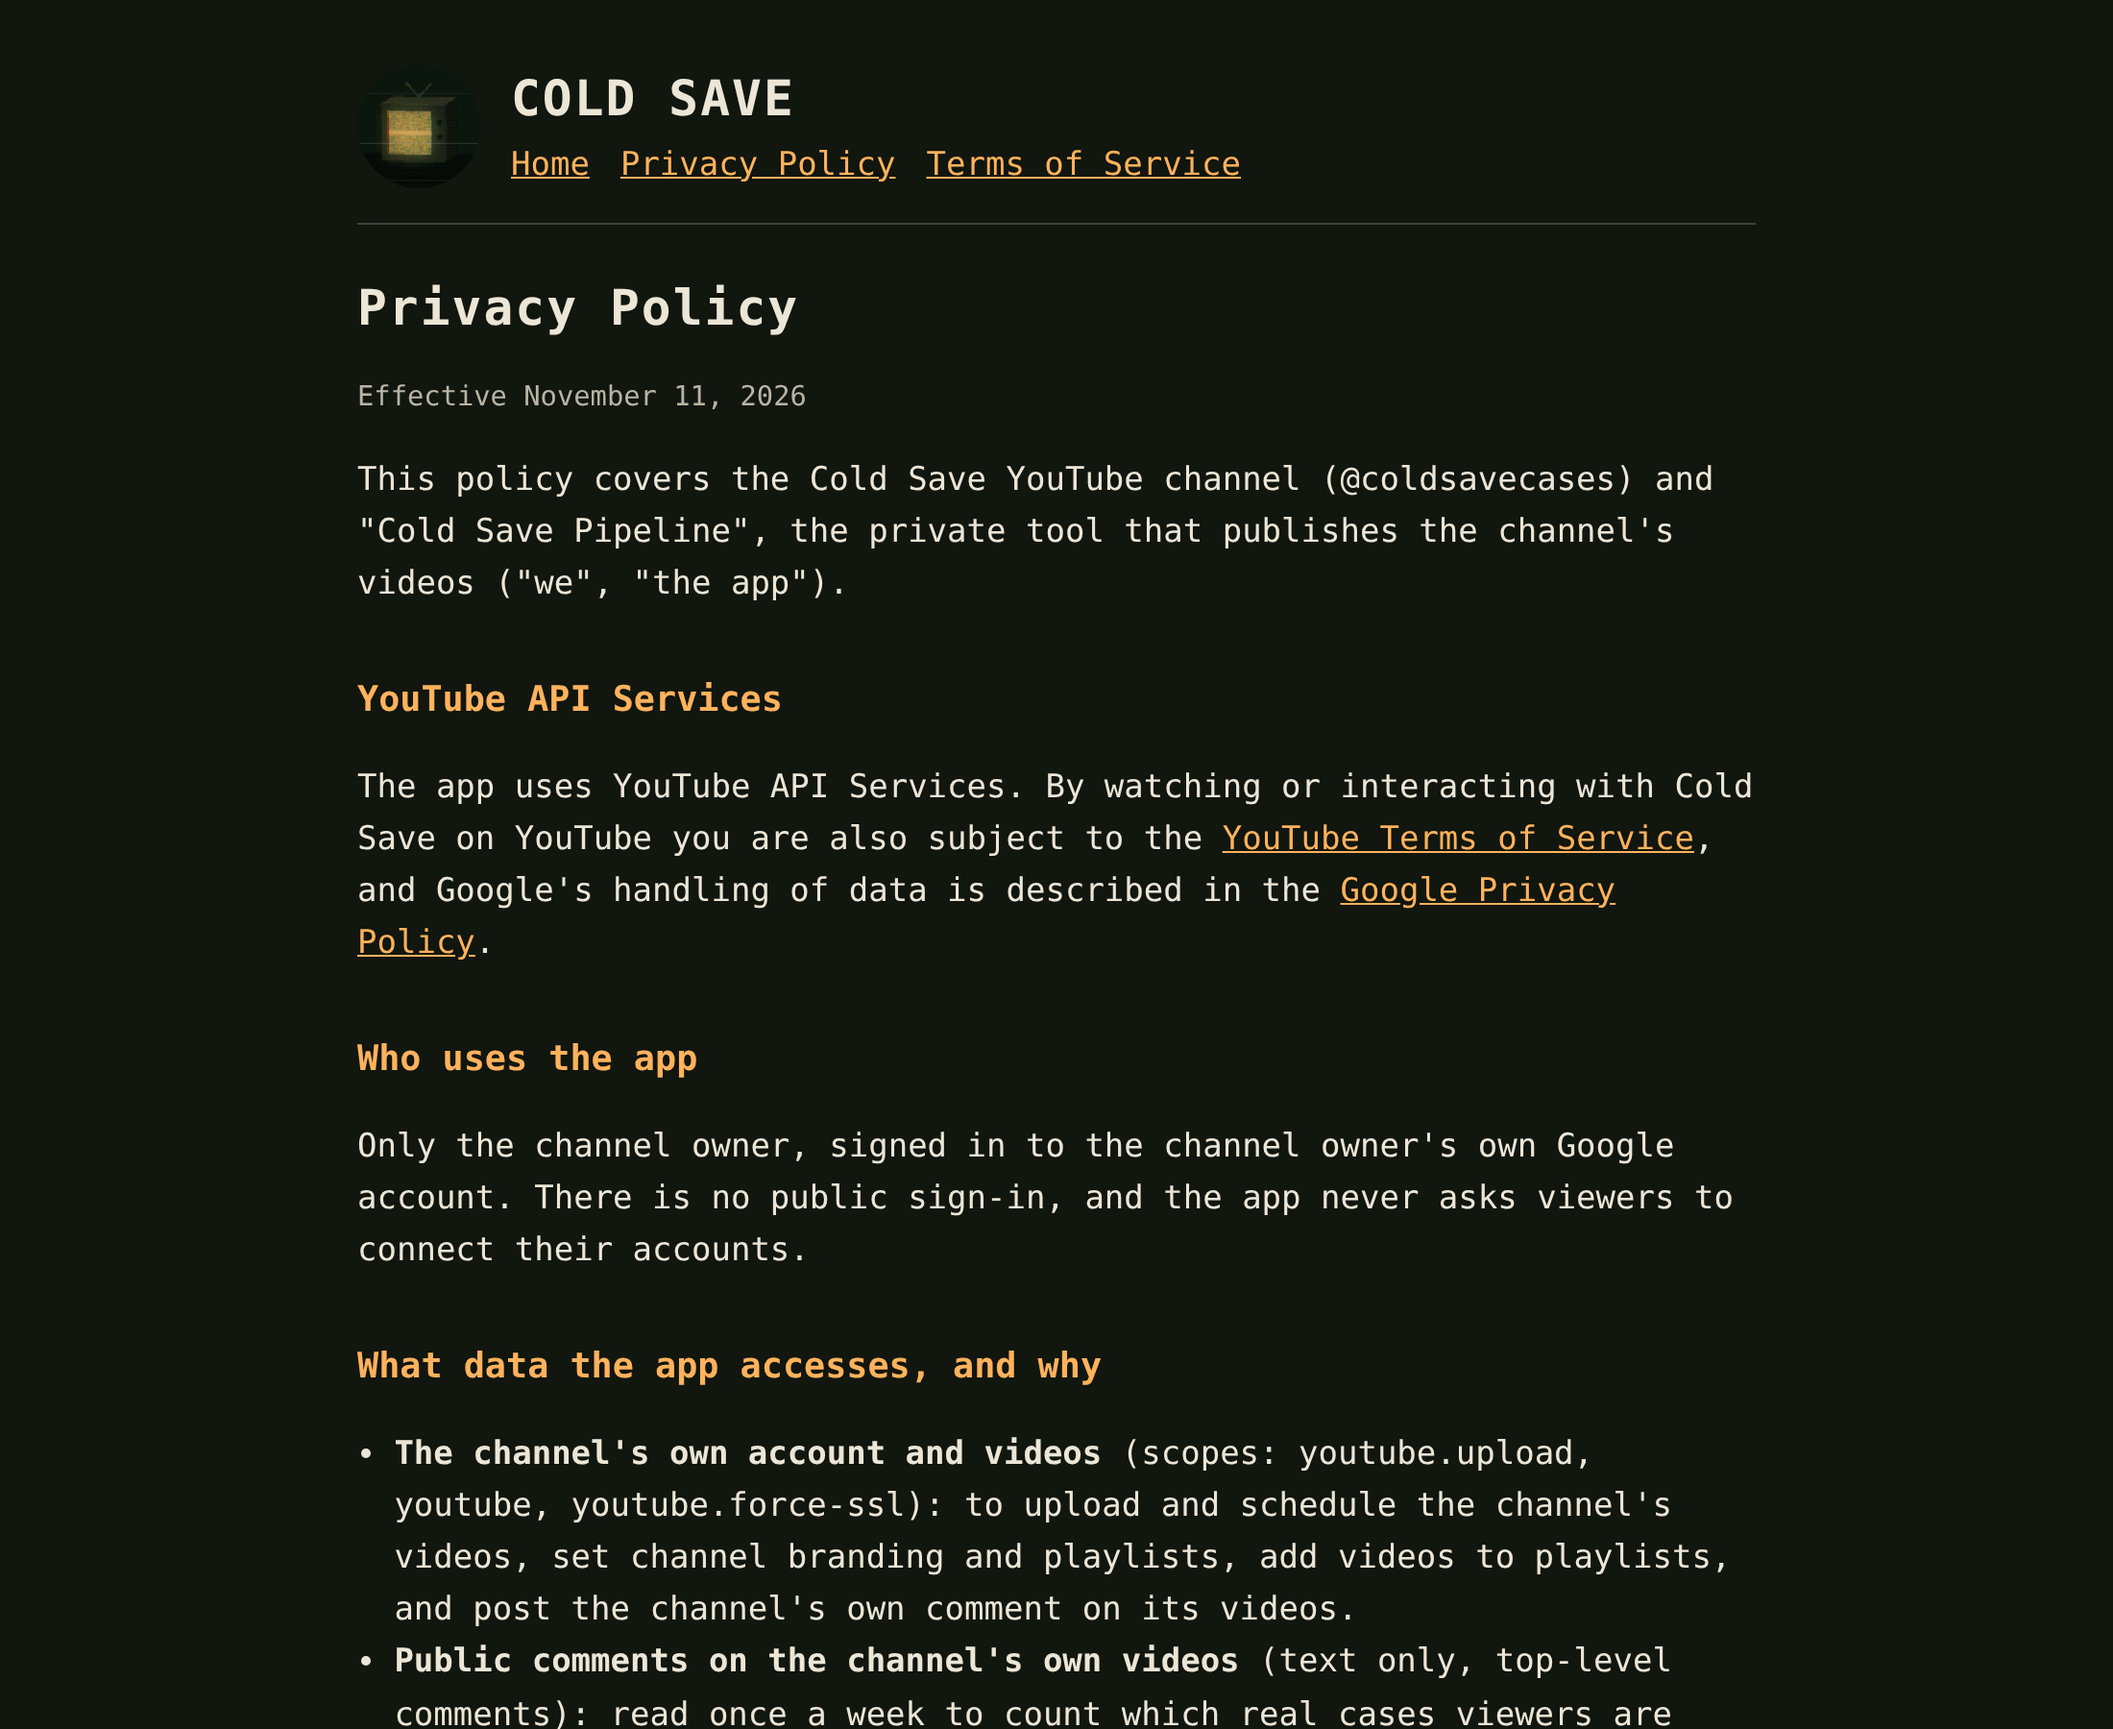
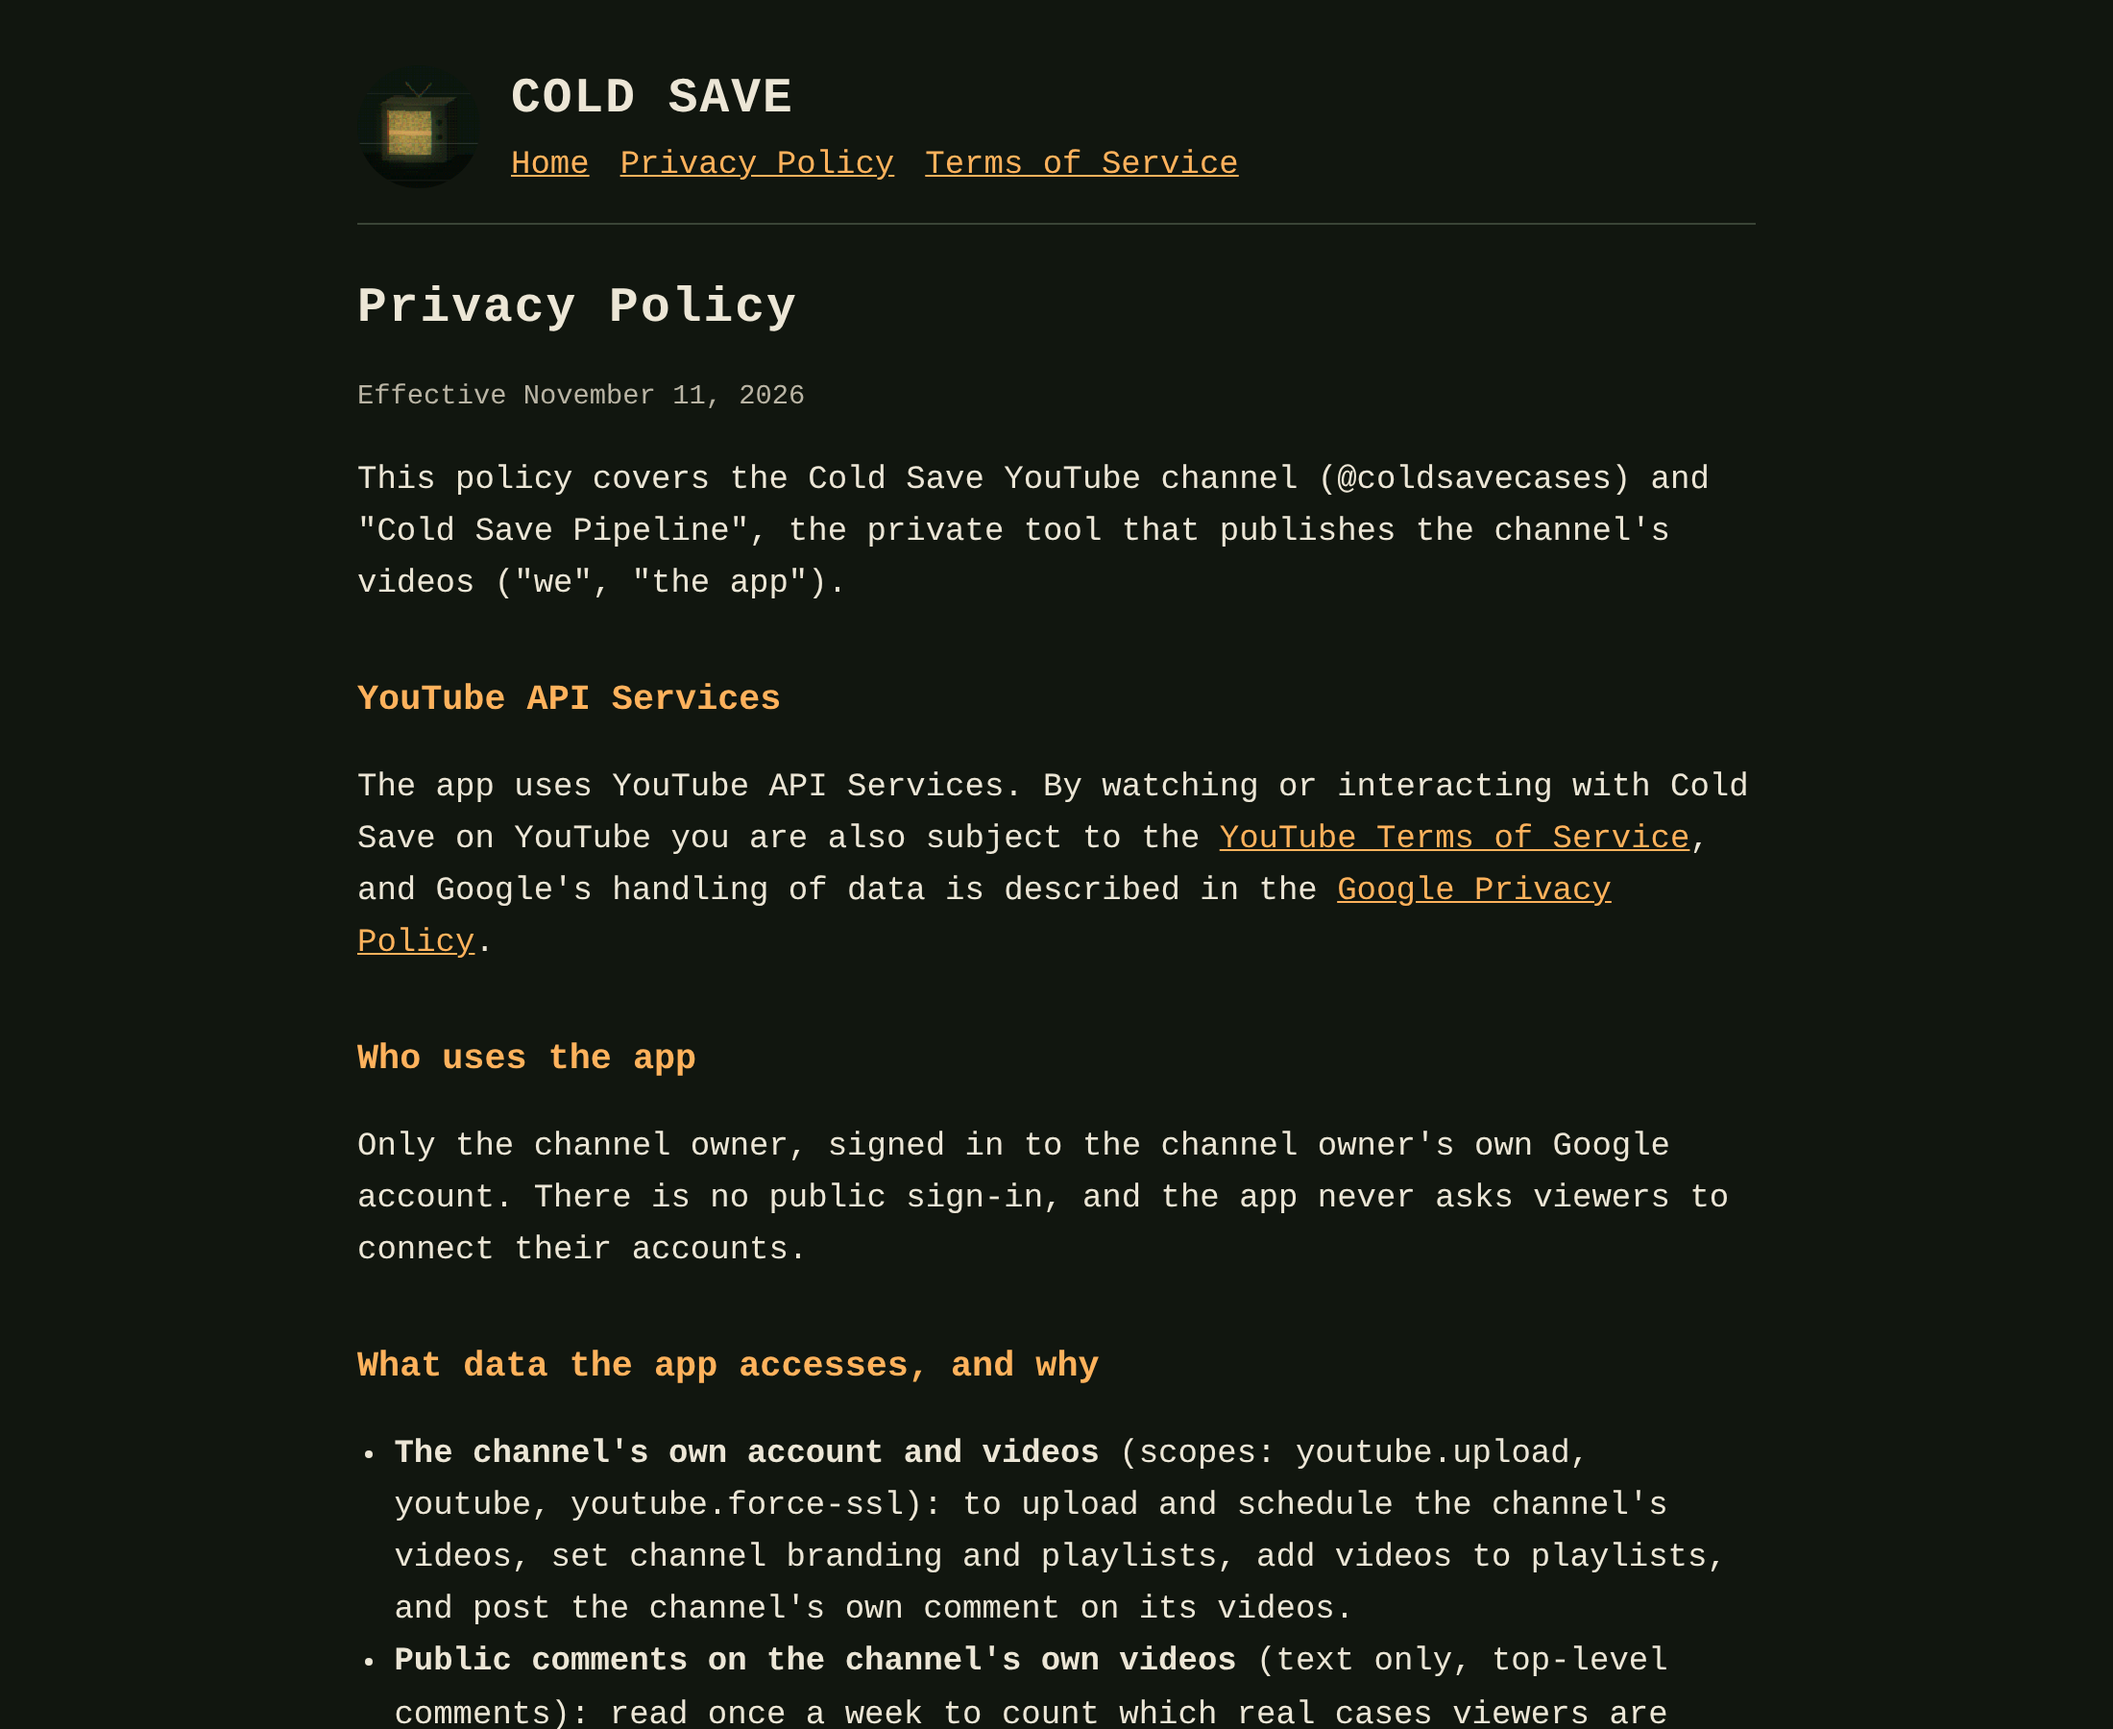
Add scripts/screenshot_site.js to regenerate the audit screenshots
Claude-Session: https://claude.ai/code/session_01BFQa3tWYj2QN7RHVS9eWM1

diff --git a/scripts/screenshot_site.js b/scripts/screenshot_site.js
@@ -1,0 +1,17 @@
+// Re-render the audit screenshots of site/privacy.html into docs/audit_evidence/.
+//   node scripts/screenshot_site.js        (needs the `playwright` package and Chromium)
+const { chromium } = require('playwright');
+const path = require('path');
+const root = path.resolve(__dirname, '..');
+(async () => {
+  const b = await chromium.launch();
+  const p = await b.newPage({ viewport: { width: 1100, height: 900 }, deviceScaleFactor: 2 });
+  await p.goto('file://' + root + '/site/privacy.html');
+  const out = (n) => path.join(root, 'docs/audit_evidence', n);
+  await p.screenshot({ path: out('privacy_policy_full.png'), fullPage: true });
+  await p.screenshot({ path: out('privacy_1_youtube_api_services_and_data.png'),
+                       clip: { x: 0, y: 0, width: 1100, height: 1150 } });
+  await p.screenshot({ path: out('privacy_2_storage_sharing_retention_deletion.png'),
+                       clip: { x: 0, y: 1130, width: 1100, height: 1300 }, fullPage: true });
+  await b.close();
+})();

diff --git a/docs/audit_evidence/README.md b/docs/audit_evidence/README.md
@@ -5,4 +5,4 @@ of `site/privacy.html` (the same file GitHub Pages deploys), not captures of the
 Re-take them from the live page if the form needs the address bar visible, and re-render
 whenever `site/privacy.html` changes:
 
-    node -e "..."   # see the Playwright snippet in docs/API_AUDIT.md notes, or ask Claude
+    node scripts/screenshot_site.js
